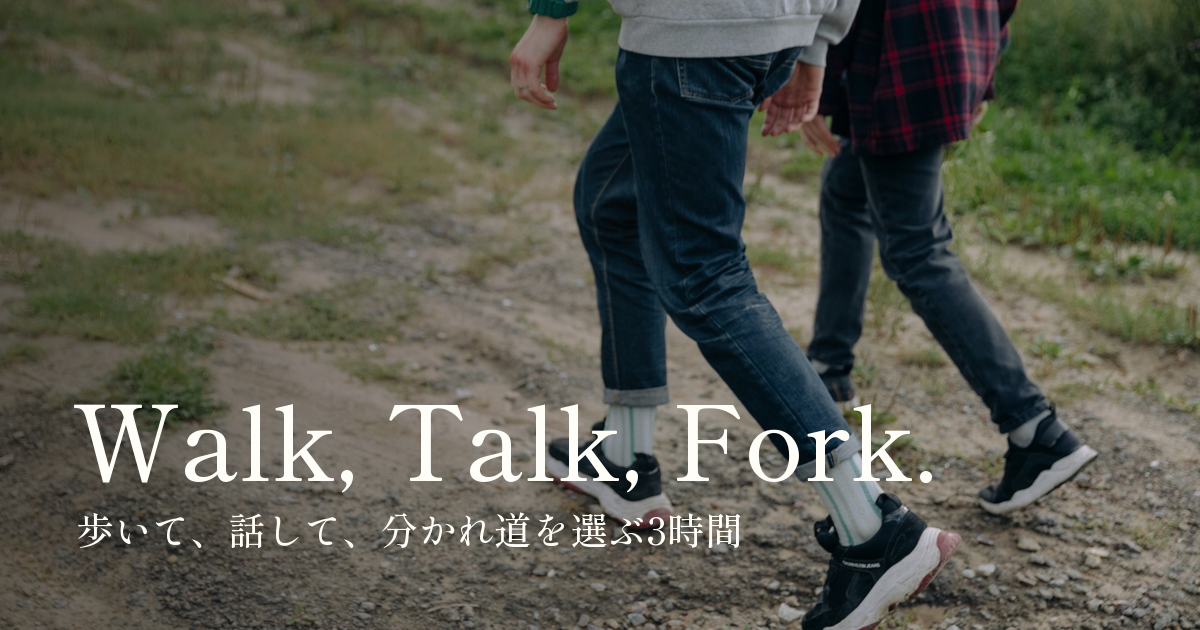
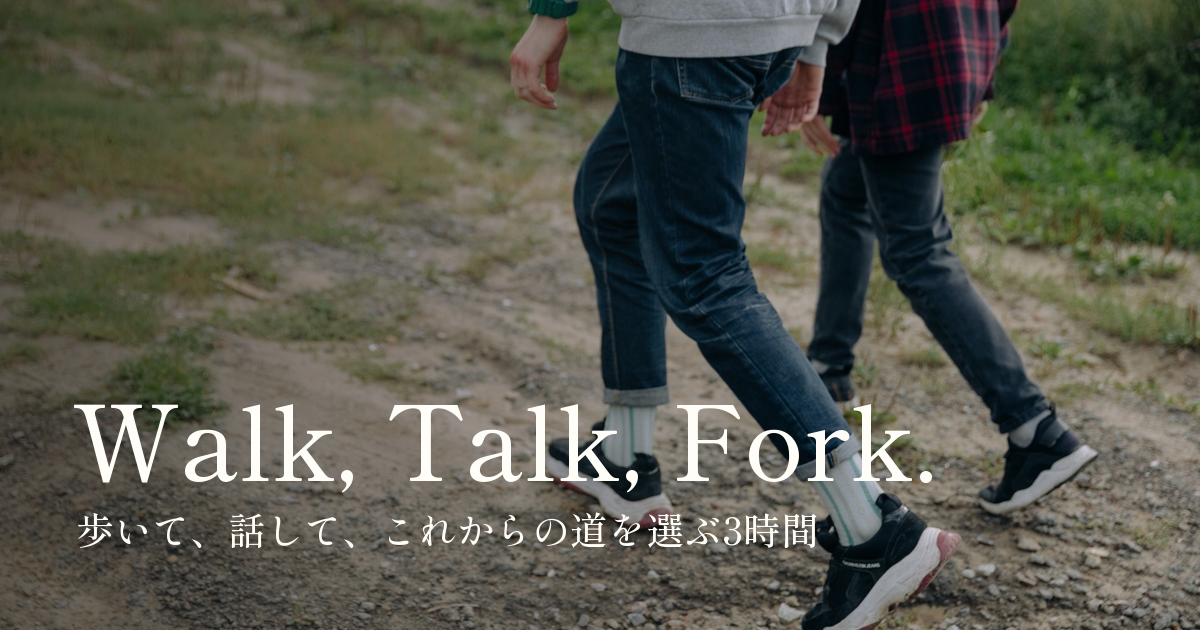
サブタイトルを「歩いて、話して、これからの道を選ぶ3時間」に変え、題名・共有の説明・OGP画像もそろえる

Changed region(s): [[0.3083, 0.8143, 0.6783, 0.8746]]

diff --git a/index.html b/index.html
@@ -3,14 +3,14 @@
 <head>
 <meta charset="utf-8">
 <meta name="viewport" content="width=device-width, initial-scale=1">
-<title>Walk, Talk, Fork. 歩いて、話して、分かれ道を選ぶ3時間</title>
+<title>Walk, Talk, Fork. 歩いて、話して、これからの道を選ぶ3時間</title>
 <meta name="description" content="キャリア研究家・黒田悠介と街を歩いたり一休みしたりしながら話し、今後の分かれ道（fork）をどちらに進みたいかを考え、あしたからできる小さな実験の方針を立てる3時間の対話セッションです。">
 <link rel="canonical" href="https://walktalkfork.github.io/">
 <meta property="og:title" content="Walk, Talk, Fork.">
-<meta property="og:description" content="歩いて、話して、分かれ道を選ぶ3時間。キャリア研究家・黒田悠介とのマンツーマンの対話セッションです。">
+<meta property="og:description" content="歩いて、話して、これからの道を選ぶ3時間。キャリア研究家・黒田悠介とのマンツーマンの対話セッションです。">
 <meta property="og:type" content="website">
 <meta property="og:url" content="https://walktalkfork.github.io/">
-<meta property="og:image" content="https://walktalkfork.github.io/assets/ogp.png?v=2">
+<meta property="og:image" content="https://walktalkfork.github.io/assets/ogp.png?v=3">
 <meta property="og:image:width" content="1200">
 <meta property="og:image:height" content="630">
 <meta property="og:locale" content="ja_JP">
@@ -74,7 +74,7 @@
     <div class="hero-over">
       <div class="wrap">
         <h1><span>Walk,</span> <span>Talk,</span> <span>Fork.</span></h1>
-        <p class="hero-sub">歩いて、<wbr>話して、<wbr>分かれ道を<wbr>選ぶ3時間</p>
+        <p class="hero-sub">歩いて、<wbr>話して、<wbr>これからの道を<wbr>選ぶ3時間</p>
         <a class="btn" id="hero-cta" href="https://calendar.app.google/J7niy7XXtRiKJ6Gh8" target="_blank" rel="noopener" data-goatcounter-click="reserve/hero" data-goatcounter-title="予約（ファーストビュー）">日時を<wbr>選んで<wbr>予約する<wbr>
           <svg width="16" height="16" viewBox="0 0 16 16" fill="none" aria-hidden="true"><path d="M3 8h10M9 4l4 4-4 4" stroke="currentColor" stroke-width="1.8"/></svg>
         </a>
@@ -130,7 +130,7 @@
 <section class="section" id="flow">
   <div class="wrap">
     <h2>3時間の<wbr>流れ</h2>
-    <p class="flow-note">Walk, Talk, Fork. の<wbr>名前の<wbr>とおり、<wbr>歩いて、<wbr>話して、<wbr>分かれ道を<wbr>選ぶ順に<wbr>進みます。<wbr>時間の<wbr>区切りは<wbr>目安です。<wbr>決まった<wbr>場所には<wbr>縛られず、<wbr>その<wbr>日の<wbr>話に<wbr>合わせて<wbr>場所を<wbr>変えていきます。</p>
+    <p class="flow-note">Walk, Talk, Fork. の<wbr>名前の<wbr>とおり、<wbr>歩いて、<wbr>話して、<wbr>これからの道を<wbr>選ぶ順に<wbr>進みます。<wbr>時間の<wbr>区切りは<wbr>目安です。<wbr>決まった<wbr>場所には<wbr>縛られず、<wbr>その<wbr>日の<wbr>話に<wbr>合わせて<wbr>場所を<wbr>変えていきます。</p>
     <ol class="verbs">
       <li>
         <div class="verb"><span class="jp">歩く</span><span class="en">Walk,</span><span class="time">0:00〜1:00</span></div>

diff --git a/tools/make_og.py b/tools/make_og.py
@@ -34,6 +34,6 @@ d = ImageDraw.Draw(img)
 title = ImageFont.truetype(str(FONT), 104)
 sub = ImageFont.truetype(str(FONT), 38)
 d.text((72, 360), "Walk, Talk, Fork.", font=title, fill="#FFFDF8")
-d.text((76, 500), "歩いて、話して、分かれ道を選ぶ3時間", font=sub, fill="#FFFDF8")
+d.text((76, 500), "歩いて、話して、これからの道を選ぶ3時間", font=sub, fill="#FFFDF8")
 img.save(ROOT / "assets/ogp.png", optimize=True)
 print("wrote assets/ogp.png")

diff --git a/tools/phrase.py b/tools/phrase.py
@@ -19,7 +19,7 @@ JA = re.compile(r"[぀-ヿ㐀-鿿]")
 
 
 # BudouX が語の途中で区切ってしまう語。ここに足すと、その語の中では改行しない
-KEEP = ["方向", "方法", "方針", "といった", "架空", "手がかり"]
+KEEP = ["方向", "方法", "方針", "といった", "架空", "手がかり", "これからの道"]
 
 
 def crosses(prev, nxt, word):

diff --git a/CLAUDE.md b/CLAUDE.md
@@ -1,6 +1,6 @@
 # Walk, Talk, Fork.：Claude Code 向けの引き継ぎ
 
-黒田悠介さんの対面の対話セッション「Walk, Talk, Fork.（歩いて、話して、分かれ道を選ぶ3時間）」の公式サイトです。
+黒田悠介さんの対面の対話セッション「Walk, Talk, Fork.（歩いて、話して、これからの道を選ぶ3時間。2026-11-15 に「分かれ道を選ぶ」から変更）」の公式サイトです。
 https://walktalkfork.github.io/ （GitHub 組織 walktalkfork。黒田さんの GitHub アカウントは ashitano-tenki。独自ドメインはまだ決めていない）
 
 最終更新：2026-11-15（改善の見本 https://claude.ai/artifact/DbgM1b2nSMDDMnNdfHNj1c で黒田さんが採用した14件を反映）
